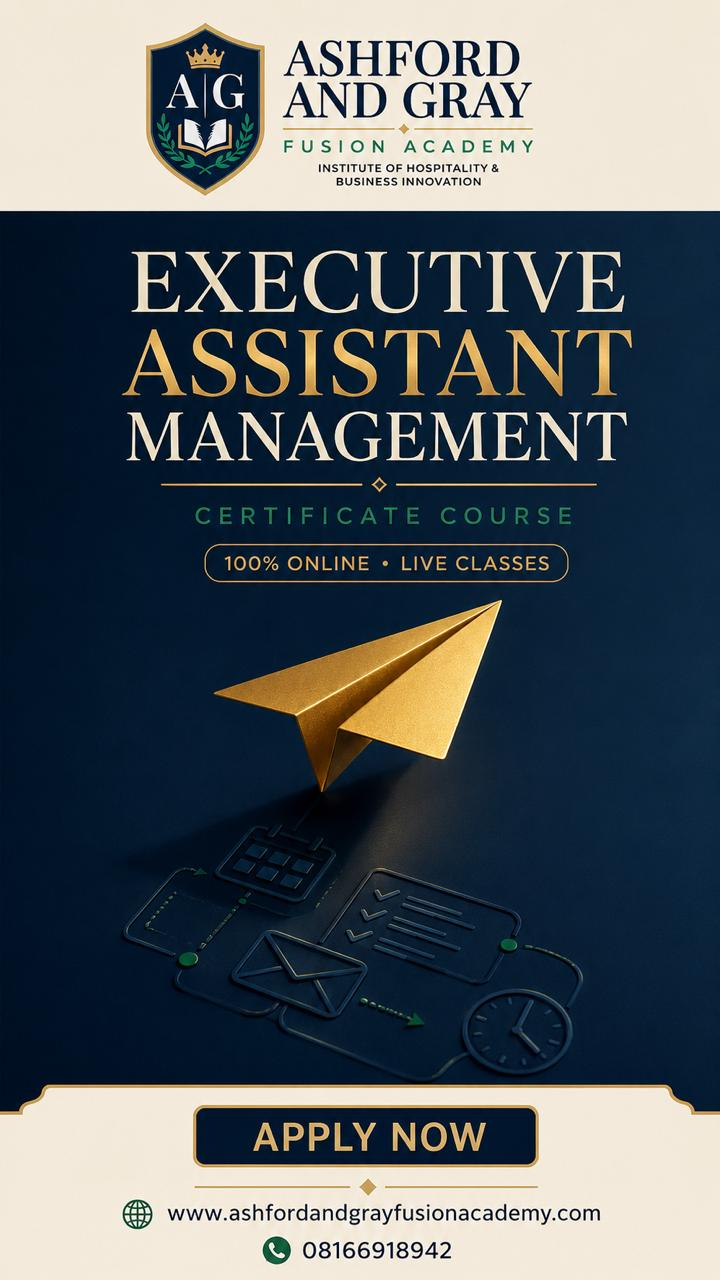
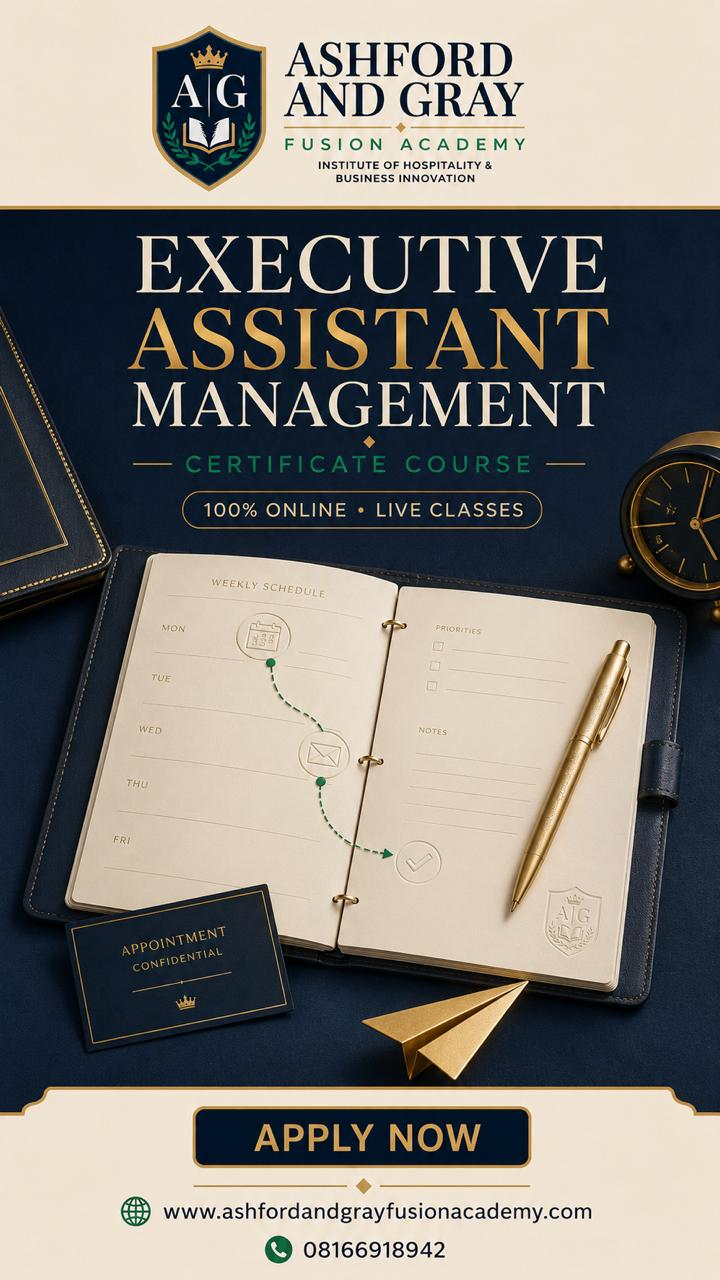
feat: add ScrollToTop component and update course images for better navigation and clarity

diff --git a/src/lib/courses-data.ts b/src/lib/courses-data.ts
@@ -219,7 +219,7 @@ export const STATIC_COURSES: Course[] = [
     duration: 12,
     level: "Intermediate",
     price: 150000,
-    imageUrl: "/COURSE%20IMAGES/Events%20and%20Protocol/eventandprotocol.png",
+    imageUrl: "/events-protocol-management-certificate.png",
     imageHint: "Professional events and official protocol systems.",
     description: "The Events & Protocol Management Certificate Program at Ashford and Gray Fusion Academy is a comprehensive professional training designed to equip learners with the strategic, operational, and executive-level skills required to successfully manage events, ceremonies, corporate functions, VIP engagements, and protocol operations.\n\nThis program blends modern event management practices with international protocol standards, preparing participants to confidently coordinate high-level events with precision, professionalism, discretion, and excellence. Learners will gain practical knowledge in event planning, vendor coordination, budgeting, security management, crisis communication, crowd control, official protocol, and high-profile guest relations.\n\nDesigned to meet global industry expectations, the program focuses on developing professionals capable of delivering seamless experiences within corporate, diplomatic, hospitality, entertainment, and executive environments.",
     whoFor: [
@@ -1011,7 +1011,7 @@ export const STATIC_COURSES: Course[] = [
     duration: 12,
     level: "Beginner",
     price: 150000,
-    imageUrl: "/imagefx-1.png",
+    imageUrl: "/business-innovation-entrepreneurship-certificate.png",
     imageHint: "Entrepreneurs collaborating on a business plan",
     description: "The Certificate in Business Innovation & Entrepreneurship is designed to provide participants with foundational knowledge and practical skills required to start, manage, and grow small businesses in today's competitive environment. The program introduces learners to entrepreneurship, innovation, business planning, branding, customer engagement, and digital business tools while equipping them with practical strategies for identifying opportunities and creating sustainable value.",
     whoFor: [

diff --git a/src/components/scroll-to-top.tsx b/src/components/scroll-to-top.tsx
@@ -1,0 +1,43 @@
+"use client";
+
+import { useEffect, useState, useCallback } from "react";
+import { AnimatePresence, motion } from "framer-motion";
+import { ArrowUp } from "lucide-react";
+
+const SHOW_AFTER_PX = 400;
+
+export function ScrollToTop() {
+    const [visible, setVisible] = useState(false);
+
+    useEffect(() => {
+        const onScroll = () => setVisible(window.scrollY > SHOW_AFTER_PX);
+        onScroll();
+        window.addEventListener("scroll", onScroll, { passive: true });
+        return () => window.removeEventListener("scroll", onScroll);
+    }, []);
+
+    const scrollToTop = useCallback(() => {
+        window.scrollTo({ top: 0, behavior: "smooth" });
+    }, []);
+
+    return (
+        <AnimatePresence>
+            {visible && (
+                <motion.button
+                    type="button"
+                    onClick={scrollToTop}
+                    aria-label="Scroll to top"
+                    initial={{ opacity: 0, y: 16, scale: 0.9 }}
+                    animate={{ opacity: 1, y: 0, scale: 1 }}
+                    exit={{ opacity: 0, y: 16, scale: 0.9 }}
+                    transition={{ duration: 0.25, ease: [0.16, 1, 0.3, 1] }}
+                    whileHover={{ scale: 1.08 }}
+                    whileTap={{ scale: 0.94 }}
+                    className="fixed bottom-6 right-6 z-40 w-11 h-11 rounded-full bg-[#0B1F3A] hover:bg-[#1F7A5A] text-white shadow-lg flex items-center justify-center transition-colors"
+                >
+                    <ArrowUp className="w-5 h-5" />
+                </motion.button>
+            )}
+        </AnimatePresence>
+    );
+}

diff --git a/src/app/layout.tsx b/src/app/layout.tsx
@@ -4,6 +4,7 @@ import "./globals.css";
 import { Toaster } from "@/components/ui/toaster";
 import { FirebaseClientProvider } from "@/firebase/client-provider";
 import { JsonLd, organizationSchema } from "@/components/seo/JsonLd";
+import { ScrollToTop } from "@/components/scroll-to-top";
 import React from "react";
 
 export const metadata: Metadata = {
@@ -121,6 +122,7 @@ export default function RootLayout({
           </GlobalLoaderProvider>
         </FirebaseClientProvider>
         <Toaster />
+        <ScrollToTop />
       </body>
     </html>
   );
